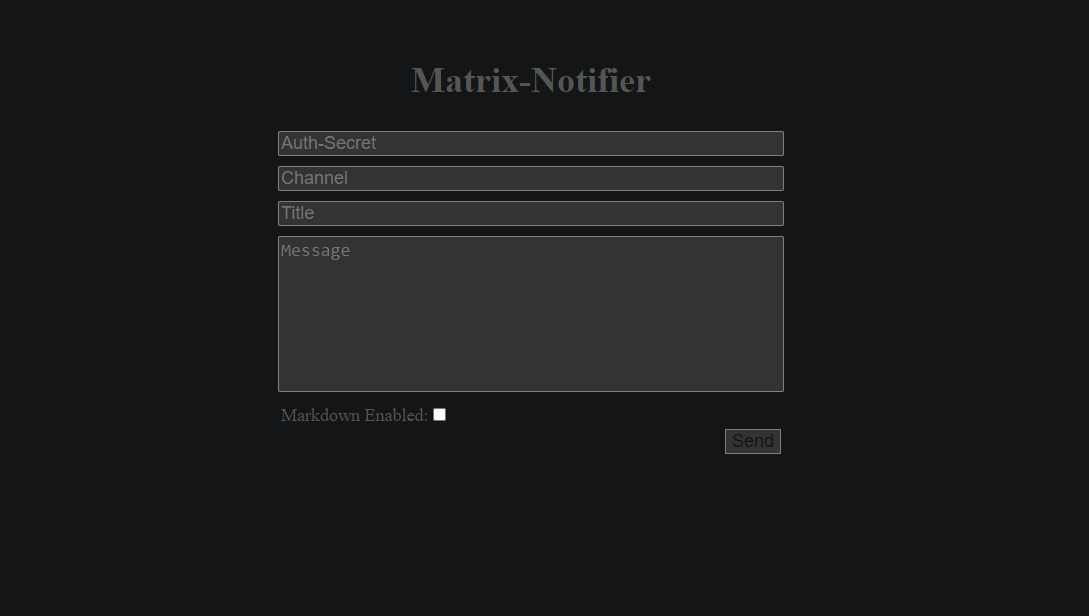
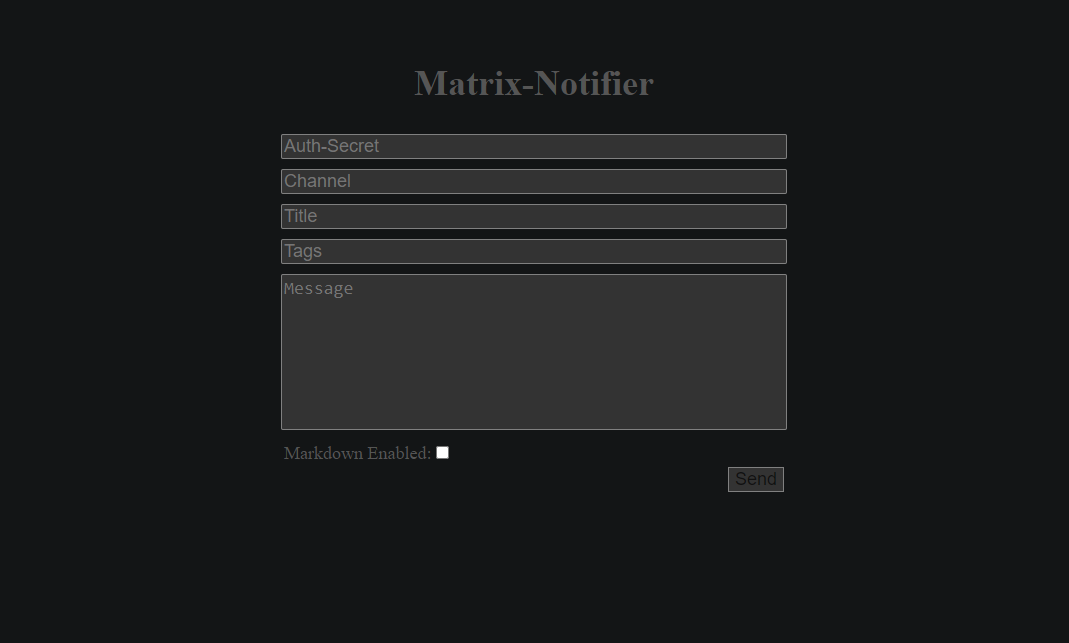
Added Tags

Changed region(s): [[0.247, 0.1851, 0.7409, 0.7711], [0.3704, 0.0925, 0.6174, 0.1542]]

diff --git a/server/web/static/js/script.js b/server/web/static/js/script.js
@@ -18,6 +18,7 @@ const onSubmit = async (e) => {
 
     const message = messageInput.value;
     const title = titleInput.value;
+    const tags = tagsInput.value;
     const token = window.tokenInput?.value;
     const channel = channelInput.value;
     const markdown = check_checkbox(markdownCheckbox);
@@ -30,6 +31,7 @@ const onSubmit = async (e) => {
             Authorization: token,
             Channel: channel,
             Title: title,
+            Tags: tags,
             Markdown: markdown
         },
         body: (message)
@@ -43,6 +45,7 @@ const onSubmit = async (e) => {
         msgSuccessDiv.innerText = "Message send";
         messageInput.value = "";
         titleInput.value = "";
+        tagsInput.value = "";
     }
 
     sendButton.disabled = false;

diff --git a/server/web/templates/index.html b/server/web/templates/index.html
@@ -16,6 +16,7 @@
             {% endif %}
             <input id="channelInput" type="text" placeholder="Channel" required>
             <input id="titleInput" type="text" placeholder="Title">
+            <input id="tagsInput" type="text" placeholder="Tags">
             <textarea id="messageInput" placeholder="Message" required></textarea>
             <a id="markdownInput">Markdown Enabled: <input id="markdownCheckbox" type="checkbox"/></a>
             <button id="sendButton">Send</button>

diff --git a/server/web/static/css/style.css b/server/web/static/css/style.css
@@ -108,6 +108,10 @@ textarea {
     margin-bottom: 10px;
 }
 
+#titleInput {
+    margin-bottom: 10px;
+}
+
 #tokenInput {
     margin-bottom: 10px;
 }

diff --git a/bot/sender.py b/bot/sender.py
@@ -1,35 +1,76 @@
 import json
 import logging
 from markdown import markdown
+import emoji
+import json
 
 logger = logging.getLogger(__name__)
+
+
+async def fetch_content(msg, tags, markdown_enabled):
+    if tags:
+        emojis = await convert_emojis(tags)
+        if markdown_enabled:
+            content = {"msgtype": "m.text",
+                       "body": f"{emojis}\n{msg['Content']}",
+                       "format": "org.matrix.custom.html",
+                       "formatted_body": markdown(msg['Content'], extensions=['nl2br'])}
+        elif markdown_enabled and not msg['Title'] == "":
+            content = {"msgtype": "m.text",
+                       "body": f"{emojis}{msg['Title']}\n{msg['Content']}",
+                       "format": "org.matrix.custom.html",
+                       "formatted_body": markdown(f"{msg['Title']}:\n{msg['Content']}", extensions=['nl2br'])}
+        elif not msg['Title'] == "":
+            content = {"msgtype": "m.text",
+                       "body": f"{emojis}{msg['Title']}\n{msg['Content']}"}
+        else:
+            content = {"msgtype": "m.text",
+                       "body": f"{emojis}\n{msg['Content']}"}
+
+    else:
+        if markdown_enabled:
+            content = {"msgtype": "m.text",
+                       "body": f"{msg['Content']}",
+                       "format": "org.matrix.custom.html",
+                       "formatted_body": markdown(msg['Content'], extensions=['nl2br'])}
+        elif markdown_enabled and not msg['Title'] == "":
+            content = {"msgtype": "m.text",
+                       "body": f"{msg['Title']}\n{msg['Content']}",
+                       "format": "org.matrix.custom.html",
+                       "formatted_body": markdown(f"{msg['Title']}:\n{msg['Content']}", extensions=['nl2br'])}
+        elif not msg['Title'] == "":
+            content = {"msgtype": "m.text",
+                       "body": f"{msg['Title']}:\n{msg['Content']}"}
+        else:
+            content = {"msgtype": "m.text",
+                       "body": f"{msg['Content']}"}
+
+    return content
+
+
+async def convert_emojis(tags):
+    emoji_dict_alias = emoji.get_aliases_unicode_dict()
+    emoji_list = []
+    for tag in tags:
+        if f":{tag}:" in emoji_dict_alias:
+            emoji_list.append(emoji.emojize(f":{tag}:", language="alias"))
+        else:
+            continue
+    emojis = ''.join(emoji_list)
+    return emojis
 
 
 async def send(msg, client):
     roomids = msg['Channels']
     roomids = json.loads(roomids)
+    tags = json.loads(msg['Tags'])
 
     if str(msg['Markdown']) == "true":
         markdown_enabled = True
     else:
         markdown_enabled = False
 
-    if markdown_enabled:
-        content = {"msgtype": "m.text",
-                   "body": f"{msg['Content']}",
-                   "format": "org.matrix.custom.html",
-                   "formatted_body": markdown(msg['Content'], extensions=['nl2br'])}
-    elif markdown_enabled and not msg['Title'] == "":
-        content = {"msgtype": "m.text",
-                   "body": f"{msg['Title']}\n{msg['Content']}",
-                   "format": "org.matrix.custom.html",
-                   "formatted_body": markdown(f"{msg['Title']}:\n{msg['Content']}", extensions=['nl2br'])}
-    elif not msg['Title'] == "":
-        content = {"msgtype": "m.text",
-                   "body": f"{msg['Title']}:\n{msg['Content']}"}
-    else:
-        content = {"msgtype": "m.text",
-                   "body": f"{msg['Content']}"}
+    content = await fetch_content(msg=msg, tags=tags, markdown_enabled=markdown_enabled)
 
     if not roomids:
         logger.info("No Channel Id provided")

diff --git a/server/parser.py b/server/parser.py
@@ -5,19 +5,11 @@ logger = logging.getLogger()
 
 
 @dataclass
-class HttpRequest:
-    method: str
-    uri: str
-    version: str
-    headers: list
-    body: str
-
-
-@dataclass
 class ParaMeter:
     channels: list
     title: str
     auth_pass: str
+    tags: list
     markdown: str
 
 
@@ -26,7 +18,15 @@ class Message:
     channels: list
     title: str
     content: str
+    tags: list
     markdown: str
+
+
+def remove_spaces(tag):
+    if str(tag).startswith(" "):
+        tag = tag[1::]
+        tag = remove_spaces(tag)
+    return tag
 
 
 def headerparse(headers):
@@ -35,6 +35,7 @@ def headerparse(headers):
     channels = []
     auth_pass = ""
     markdown = "false"
+    parsed_tags = []
 
     for header, header_content in headers.items():
         if header == "X-Title" or header.lower() == "title" or header.lower() == "t":
@@ -53,8 +54,18 @@ def headerparse(headers):
                 markdown = str(header_content).lower()
             else:
                 return False
+        elif header == "X-Tags" or header.lower() == "tags" or header.lower() == "tag" or header.lower() == "ta":
+            tags = header_content.rsplit(",")
+            parsed_tags = []
+            for tag in tags:
+                tag = str(tag).lower()
+                tag = remove_spaces(tag)
+                parsed_tags.append(tag)
 
-    parameter = ParaMeter(title=title, channels=channels, auth_pass=auth_pass, markdown=markdown)
+
+    parameter = ParaMeter(title=title, channels=channels,
+                          auth_pass=auth_pass, markdown=markdown,
+                          tags=parsed_tags)
 
     return parameter
 
@@ -77,5 +88,6 @@ def messageparse(parameter, body):
                     logger.error("Couldn't decode request data")
 
     msg = Message(title=parameter.title, content=content,
-                  channels=parameter.channels, markdown=parameter.markdown)
+                  channels=parameter.channels, markdown=parameter.markdown,
+                  tags=parameter.tags)
     return msg

diff --git a/server/saver.py b/server/saver.py
@@ -32,13 +32,14 @@ def save_to_db(msg):
     cur = con.cursor()
 
     cur.execute(
-        '''CREATE TABLE IF NOT EXISTS messages (id INT PRIMARY KEY, channels text, title text, content text, markdown text)''')
+        '''CREATE TABLE IF NOT EXISTS messages (id INT PRIMARY KEY, channels text, title text, content text, tags text, markdown text)''')
     id = get_next_id(cur)
 
     channels = json.dumps(msg.channels)
+    tags = json.dumps(msg.tags)
 
     cur.execute(
-        f'''INSERT OR IGNORE INTO messages VALUES ('{id}', '{channels}', '{msg.title}', '{msg.content}', '{msg.markdown}')''')
+        f'''INSERT OR IGNORE INTO messages VALUES ('{id}', '{channels}', '{msg.title}', '{msg.content}', '{tags}', '{msg.markdown}')''')
 
     con.commit()
 

diff --git a/server/app.py b/server/app.py
@@ -67,7 +67,7 @@ def get_messages():
     for tuple in data:
         message_data = dict([('Id', tuple[0]), ('Channels', tuple[1]),
                             ('Title', tuple[2]), ('Content', tuple[3]),
-                            ('Markdown', tuple[4])])
+                            ('Tags', tuple[4]),('Markdown', tuple[5])])
         message_data_list.append(message_data)
 
     content_data = json.dumps(message_data_list)

diff --git a/server/config.py b/server/config.py
@@ -9,7 +9,7 @@ limit = 100
 # Where data will persist for the server
 datadir_server = "./data"
 
-authorization = False
+authorization = True
 auth_secret = ""
 
 

diff --git a/README.md b/README.md
@@ -98,13 +98,14 @@ Another example with some actual values:
 curl \
   -H "Channel: !liLFnvuVbMtrtbOYMS:matrix.org" \
   -H "Title: Server Failure"
+  -H "Tags: exclamation, computer"
   -d "Your server went down!" \
   127.0.0.1:5505
 ```
 
-And on ios that would result in a notifcation like this:
+And on ios with element installed that would result in a notifcation like this:
 
-![img.png](assets/notifcation.png)
+![notification.png](assets/notification.png)
 
 Here's a list of headers together with their provided aliases and a description of what these headers are used for:
 
@@ -115,6 +116,11 @@ X-Channel(Case Sensitive) - Channel(Case Insensitive), c(Case Insensitive)
 # Sets the title of the message. Cannot be used repeatedly.
 X-Title(Case Sensitive) - Title(Case Insensitive), t(Case Insensitive)
 
+# Used to put emojis into the title without actually typing them out.
+# Useful if wherever you want to send emojis from doesnt support utf-8.
+# Emoji codes can be found here: https://www.webfx.com/tools/emoji-cheat-sheet/
+X-Tags(Case Sensitive) - Tags(Case Insensitive), Tag(Case Insensitive), ta(Case Insensitive)
+
 # Used for api authentication. Cannot be used repeatedly.
 X-Authorization(Case Sensitive) - Authorization(Case Insensitive), auth(Case Insensitive)
 
@@ -124,7 +130,7 @@ X-Markdown(Case Sensitive) - Markdown(Case Insensitive), m(Case Insensitive)
 
 Alternatively if you could use the Web UI to send messages, which looks like this:
 
-![img_1.png](assets/webui.png)
+![webui.png](assets/webui.png)
 
 For more examples take a look into the examples directory.
 
